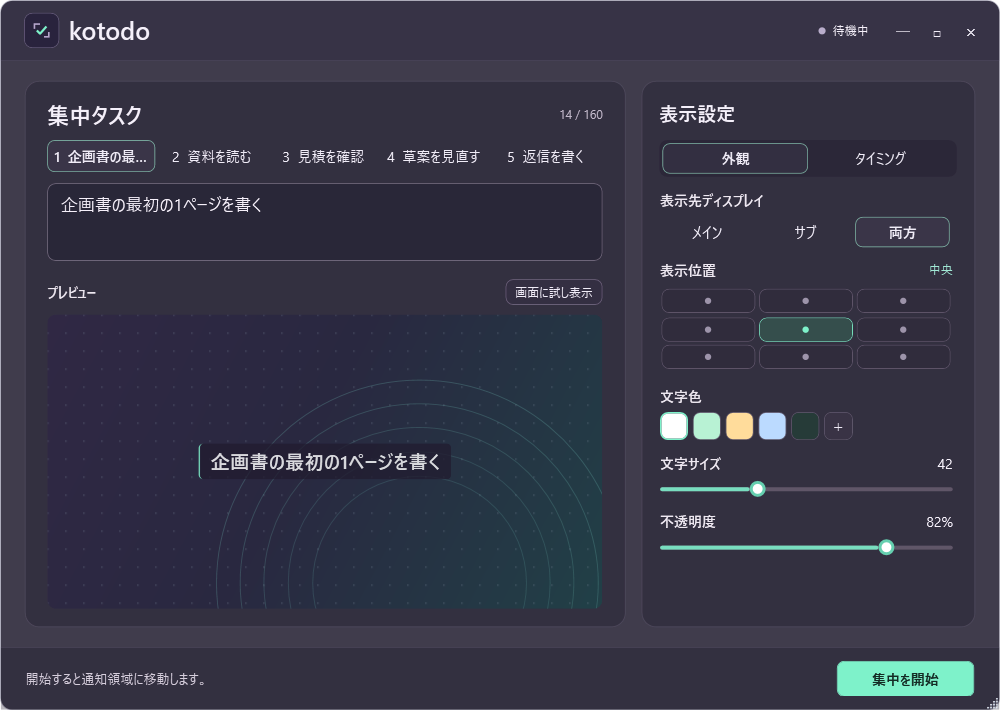
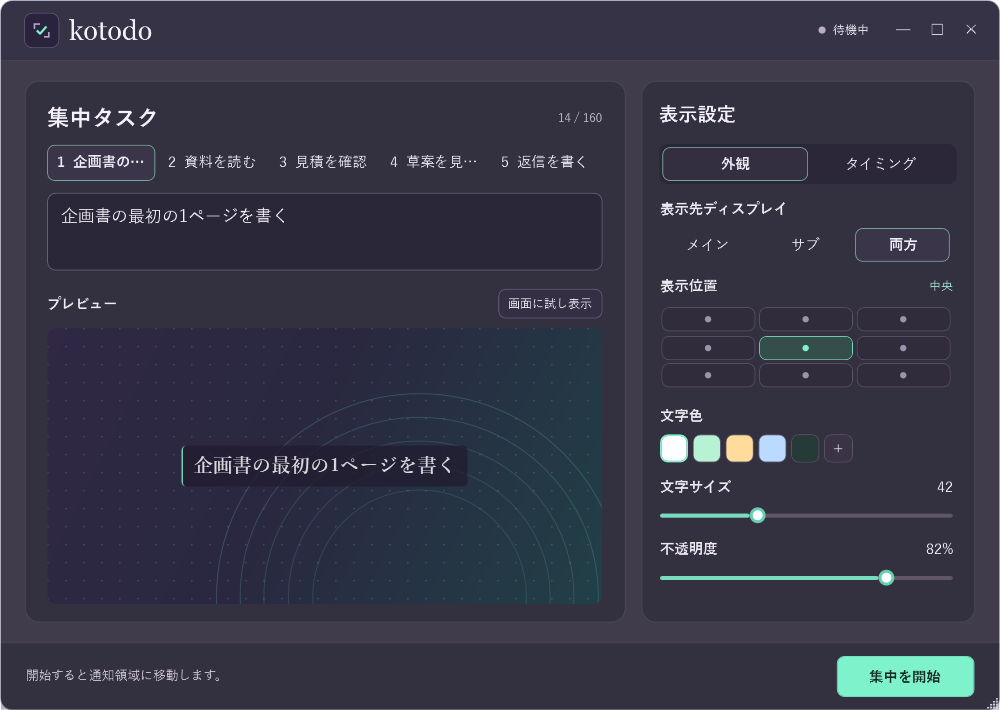
Refresh kotodo screenshot and link to v1.1.1

diff --git a/kotodo/index.html b/kotodo/index.html
@@ -13,11 +13,11 @@
 <main class="shell">
   <section class="intro">
     <div>
-      <p class="platform" lang="en">Windows · v1.1.0</p>
+      <p class="platform" lang="en">Windows · v1.1.1</p>
       <h1>kotodo</h1>
       <p class="lead">今やることを、<br>ひとこと画面に。</p>
       <p class="summary">画面を切り替えた瞬間、書いておいた一行がそっと現れます。作業の手を止めずに、次にやることを思い出せます。</p>
-      <a class="download" href="https://github.com/eto-h/kotodo/releases/download/v1.1.0/kotodo.exe">Windows 版をダウンロード <span aria-hidden="true">↓</span></a>
+      <a class="download" href="https://github.com/eto-h/kotodo/releases/download/v1.1.1/kotodo.exe">Windows 版をダウンロード <span aria-hidden="true">↓</span></a>
       <p class="detail">無料 · kotodo.exe · .NET Framework 4.8</p>
     </div>
     <figure><a href="settings.png"><img src="settings.png" alt="kotodo の半透明の設定画面。5件の集中タスクの切り替えと、メイン・サブ・両方の表示先設定。" width="1000" height="710"></a><figcaption>設定画面 <span>画像をクリックして拡大</span></figcaption></figure>
@@ -31,7 +31,7 @@
     </ol>
   </section>
   <section class="notes"><h2>タスクと設定の保存</h2><p>入力した内容と設定はこの PC の <code>%LOCALAPPDATA%\kotodo\settings.xml</code> に保存します。選択中のタスクと表示先は次回も引き継ぎます。旧 kotodo・FocusCue のタスクは1番の枠に入ります。</p></section>
-  <section class="notes" id="en" lang="en"><h2>Quick start</h2><p>Run kotodo.exe on Windows with .NET Framework 4.8. Save up to five tasks and select one. Choose the primary display, secondary displays, or both, then select “集中を開始” to start. Your reminder appears over other apps and lets clicks pass through. Open kotodo from the system tray to change settings or end the session.</p><a href="https://github.com/eto-h/kotodo/releases/tag/v1.1.0">GitHub release · v1.1.0 →</a></section>
+  <section class="notes" id="en" lang="en"><h2>Quick start</h2><p>Run kotodo.exe on Windows with .NET Framework 4.8. Save up to five tasks and select one. Choose the primary display, secondary displays, or both, then select “集中を開始” to start. Your reminder appears over other apps and lets clicks pass through. Open kotodo from the system tray to change settings or end the session.</p><a href="https://github.com/eto-h/kotodo/releases/tag/v1.1.1">GitHub release · v1.1.1 →</a></section>
 </main>
 <footer class="footer shell"><p>eto works</p><nav aria-label="製品情報"><a href="../#tools">ツール一覧</a><a href="https://github.com/eto-h/kotodo">GitHub</a></nav></footer>
 </body>
